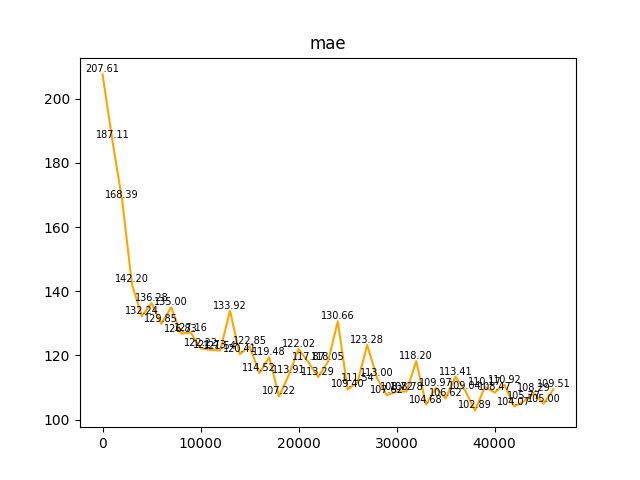
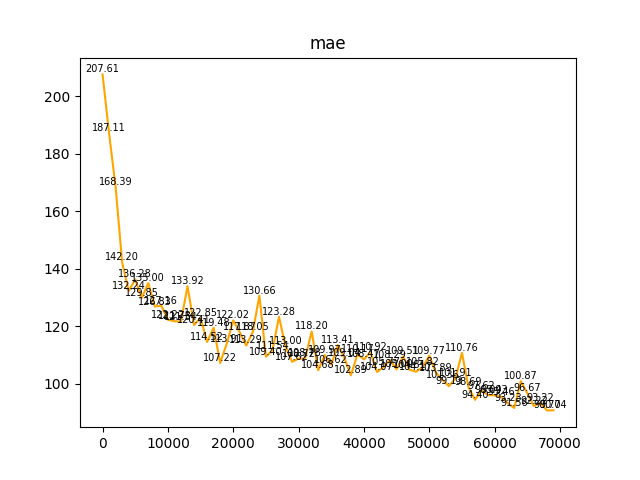
add

diff --git a/ReaderCSVToImage.py b/ReaderCSVToImage.py
@@ -3,10 +3,10 @@ import csv
 from matplotlib import pyplot as plt
 #subdir = 'kth_channel_128'
 #subdir = 'kth128'
-#subdir = 'threemau_multidim_cross'
+subdir = 'threemau_multidim_cross'
 #subdir = 'mulmul_o_3x7'
 #subdir = 'threemau_multidim_cache_cross'
-subdir = 'threemau_multidim_cache_cross_mul'
+#subdir = 'threemau_multidim_cache_cross_mul'
 
 file = "plot/images/"+subdir+"/result.csv"
 result_file = open(file)  # 打开csv文件
